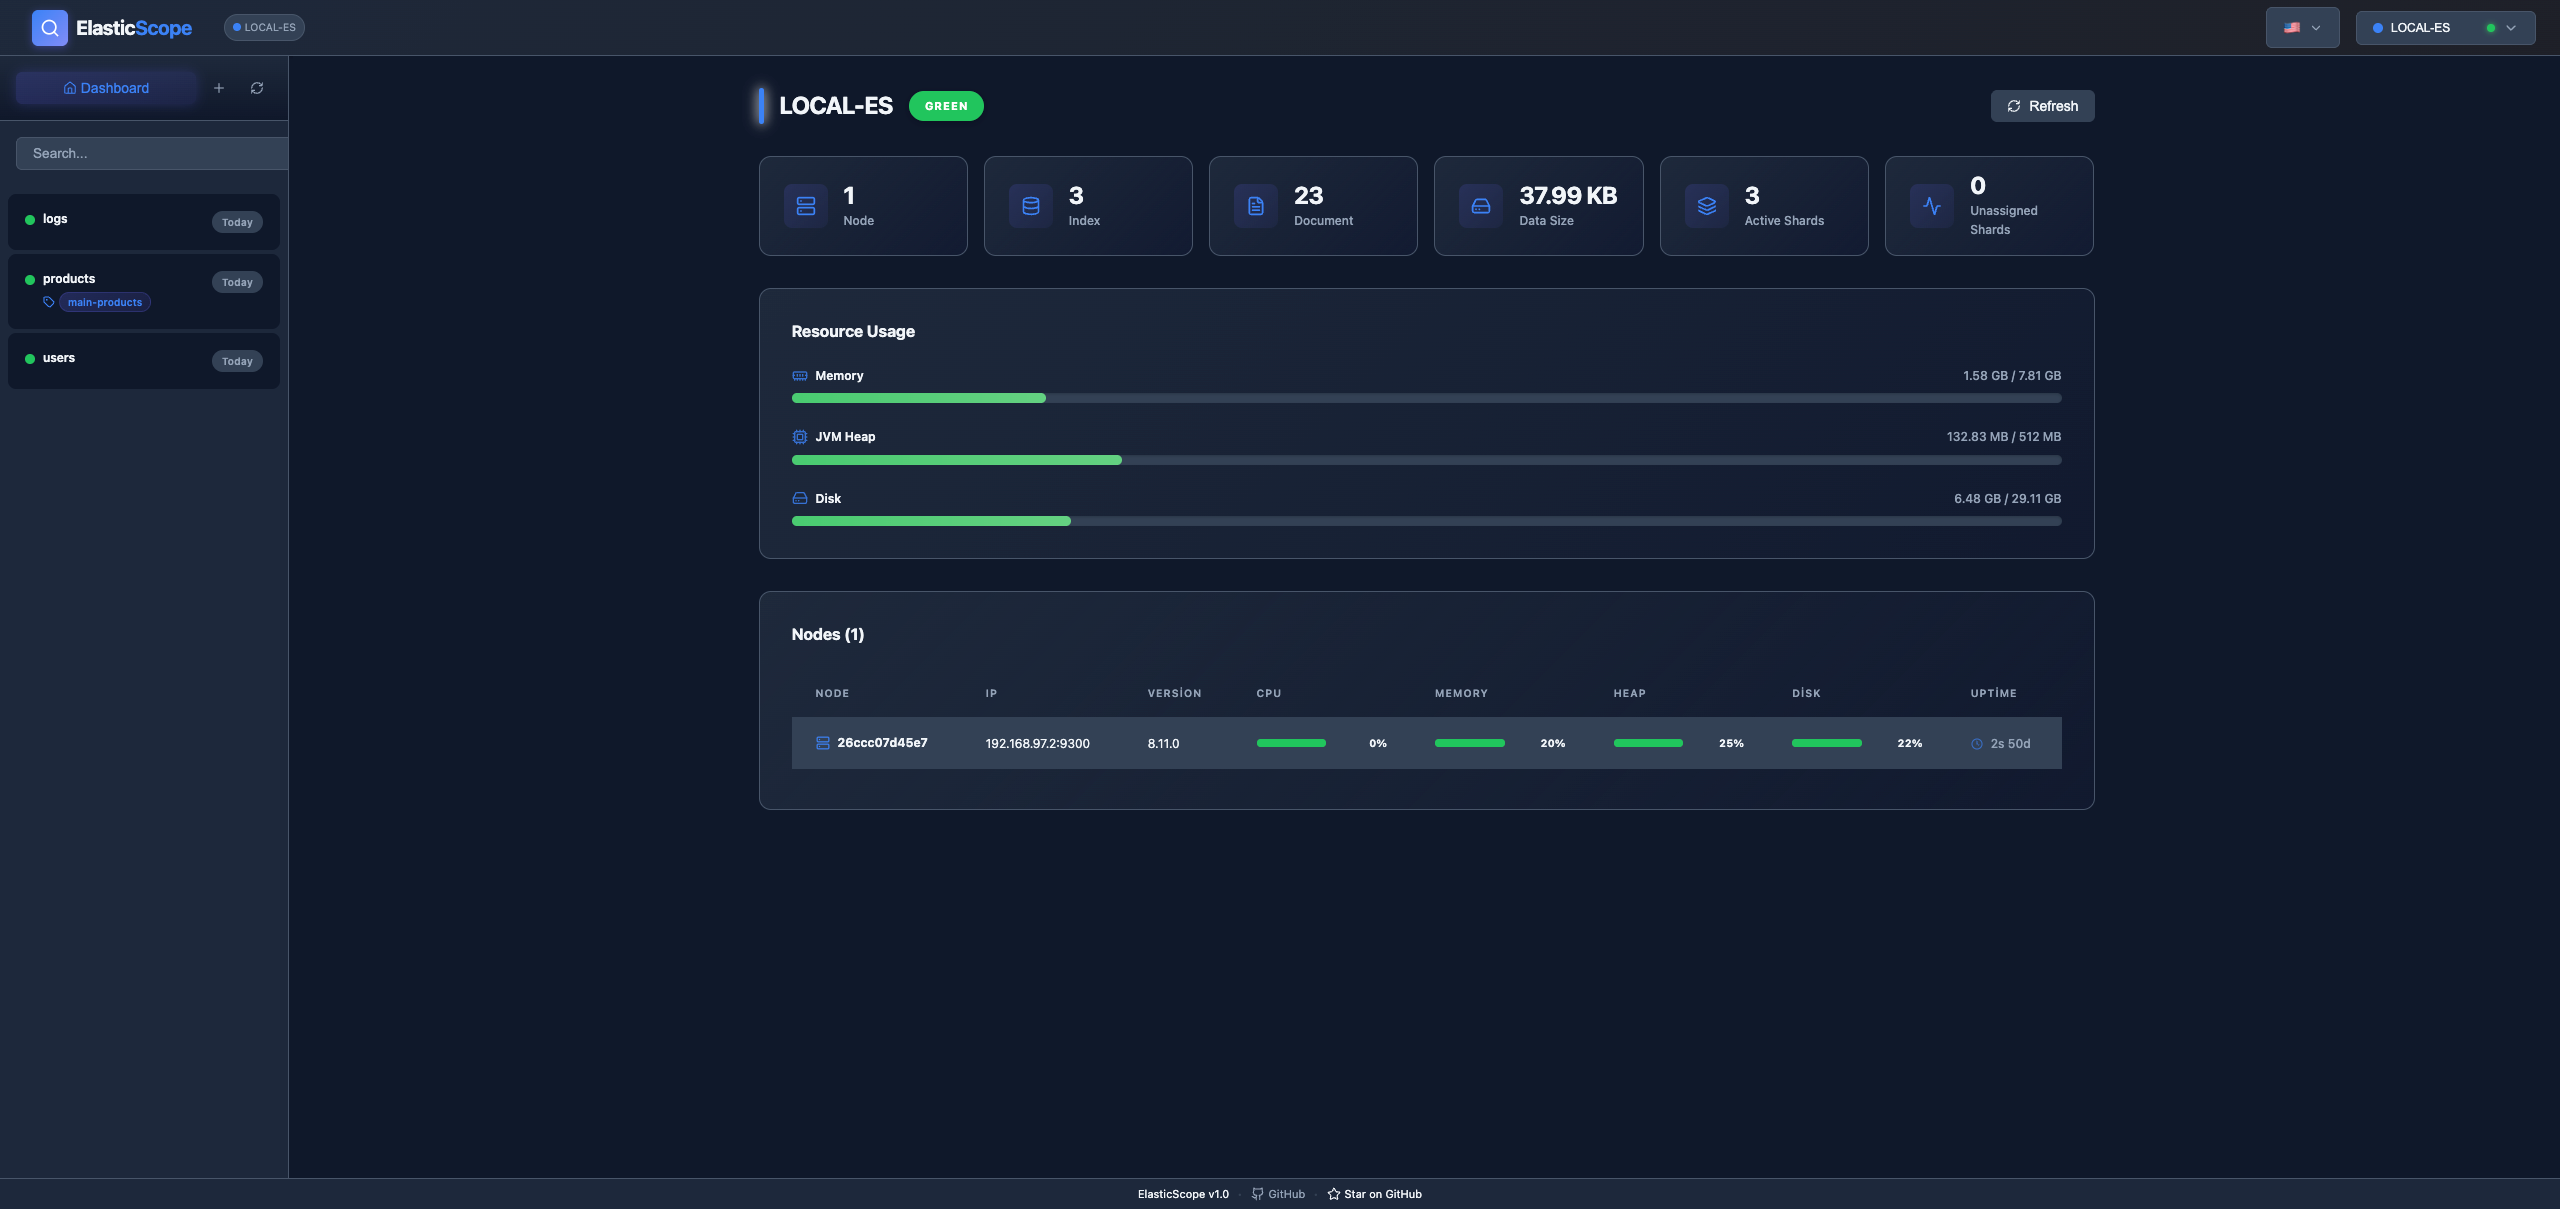
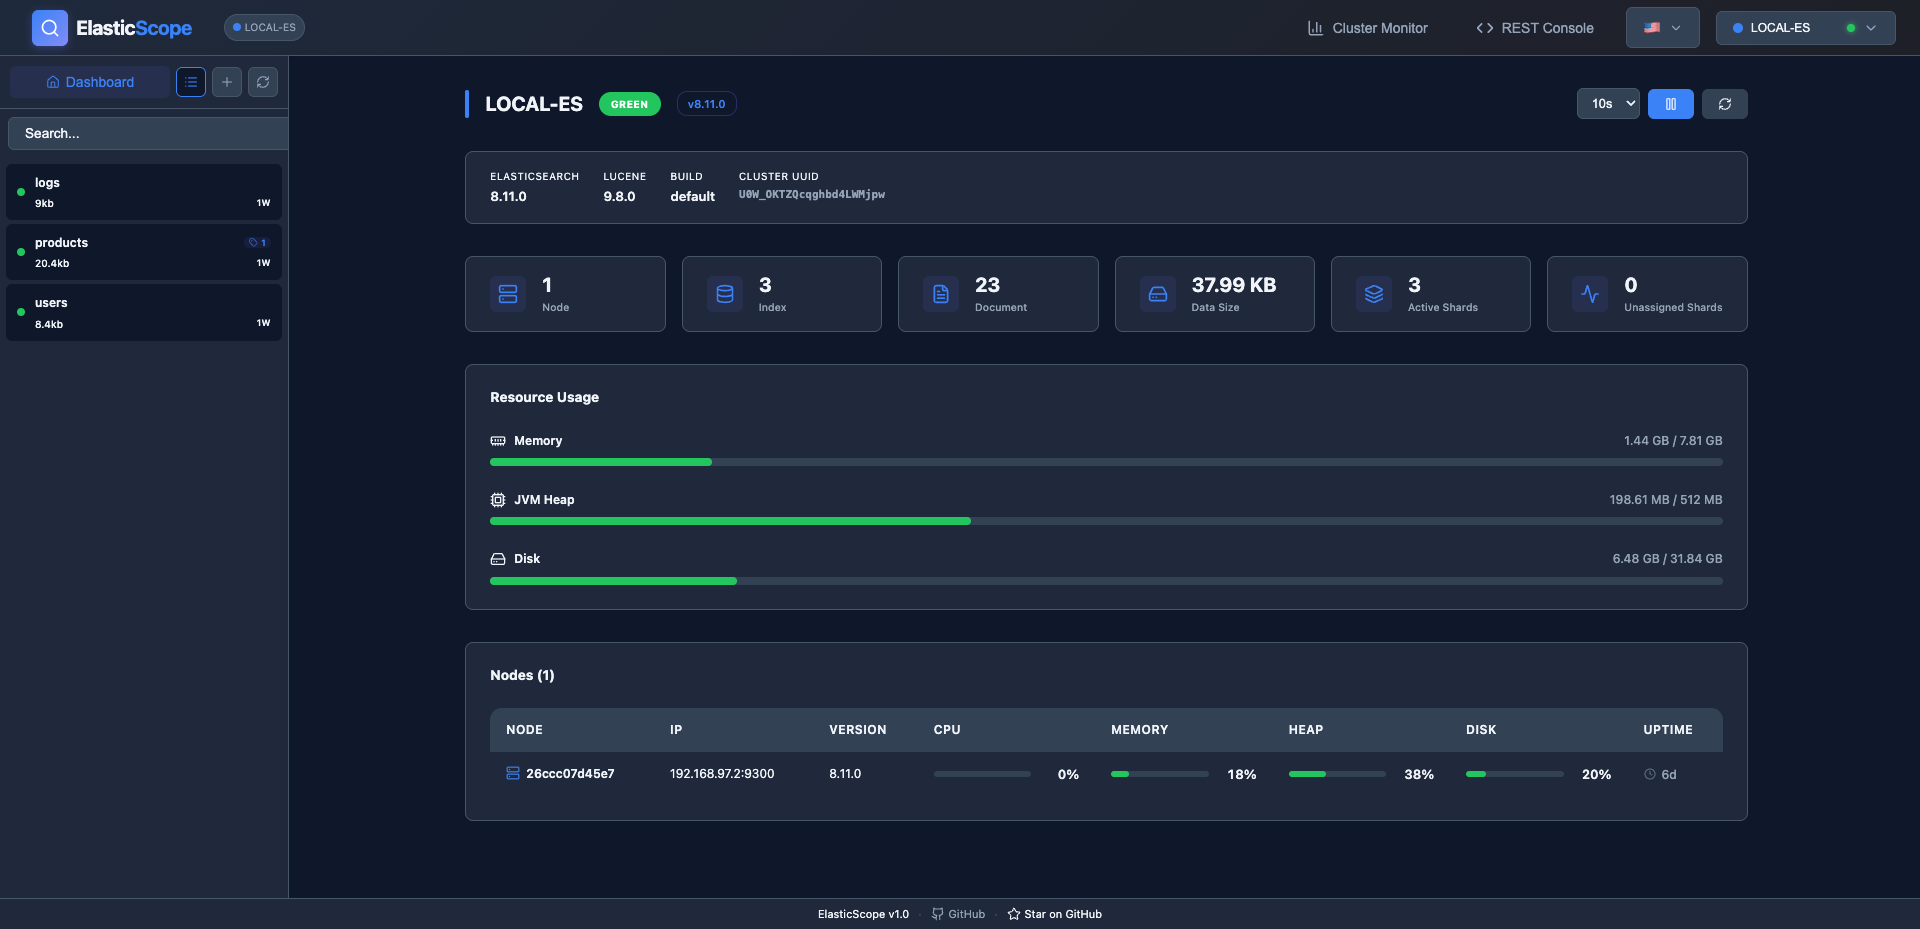
update pages

diff --git a/docs/index.html b/docs/index.html
@@ -620,7 +620,8 @@
                     <span class="tech-badge">📘 TypeScript 5</span>
                     <span class="tech-badge">⚡ Vite 7</span>
                     <span class="tech-badge">🔍 Elasticsearch 8.x</span>
-                    <span class="tech-badge">🐳 Docker</span>
+                    <span class="tech-badge">� SQLite / Postgres / MySQL</span>
+                    <span class="tech-badge">�🐳 Docker</span>
                 </div>
             </div>
         </section>
@@ -643,6 +644,10 @@
                         </div>
                         <div class="gallery-item" data-src="screenshots/comparison.png">
                             <img src="screenshots/comparison.png" alt="Cluster Comparison" loading="lazy"
+                                draggable="false">
+                        </div>
+                        <div class="gallery-item" data-src="screenshots/cluster-monitor.png">
+                            <img src="screenshots/cluster-monitor.png" alt="Cluster Monitor" loading="lazy"
                                 draggable="false">
                         </div>
                     </div>
@@ -684,10 +689,10 @@
                     </div>
 
                     <div class="feature-card">
-                        <div class="feature-icon">🔍</div>
-                        <h3>Powerful Search</h3>
-                        <p>Construct complex queries with our visual builder or write raw DSL. Includes syntax
-                            highlighting and history.</p>
+                        <div class="feature-icon">⚡</div>
+                        <h3>Advanced REST Console</h3>
+                        <p>Execute raw queries with autocomplete, history, split-screen view, and cURL import/export
+                            support.</p>
                     </div>
 
                     <div class="feature-card">
@@ -702,6 +707,19 @@
                         <h3>Docker Ready</h3>
                         <p>Deploy in seconds. Our optimized Docker image gets you up and running with a single command.
                         </p>
+                    </div>
+
+                    <div class="feature-card">
+                        <div class="feature-icon">📈</div>
+                        <h3>Cluster Monitor</h3>
+                        <p>Real-time health monitoring with visualizations for CPU, memory, and disk usage across all
+                            nodes.</p>
+                    </div>
+
+                    <div class="feature-card">
+                        <div class="feature-icon">🗄</div>
+                        <h3>Flexible Database</h3>
+                        <p>Support for SQLite (default), PostgreSQL, and MySQL for scalable production deployments.</p>
                     </div>
                 </div>
             </div>

diff --git a/README.md b/README.md
@@ -135,6 +135,10 @@ Unlike heavyweight alternatives, ElasticScope is lightweight, fast, and easy to 
 
 ![REST Console](docs/screenshots/rest-console.png)
 
+### Cluster Monitor
+
+![Cluster Monitor](docs/screenshots/cluster-monitor.png)
+
 </details>
 
 ## Installation
